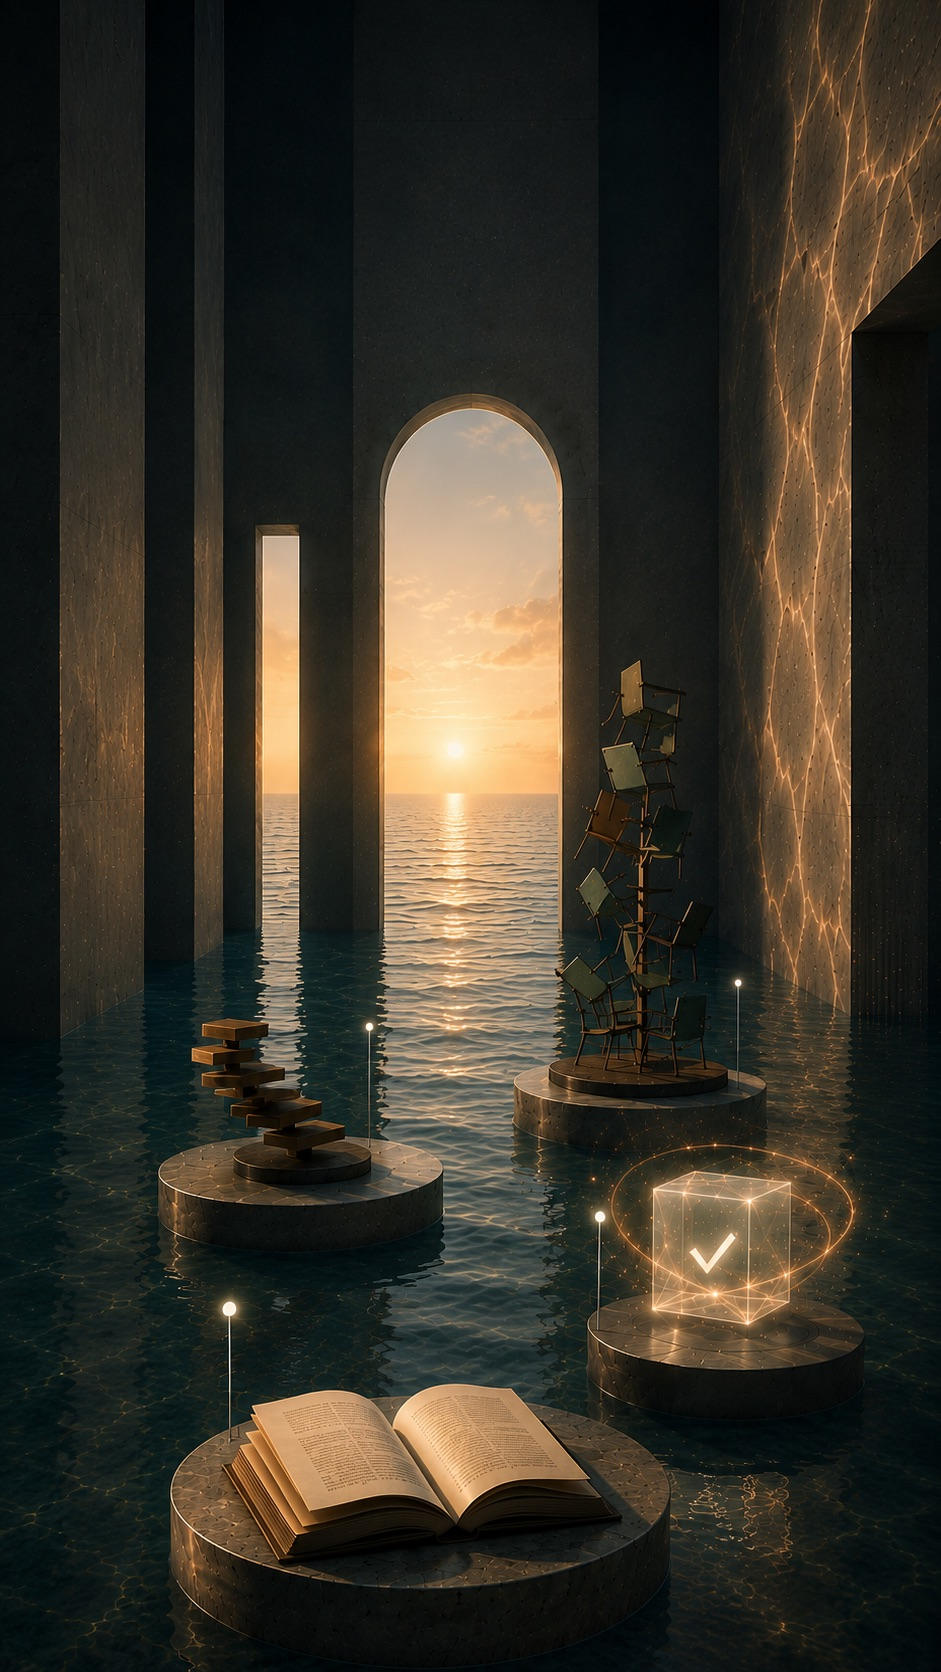
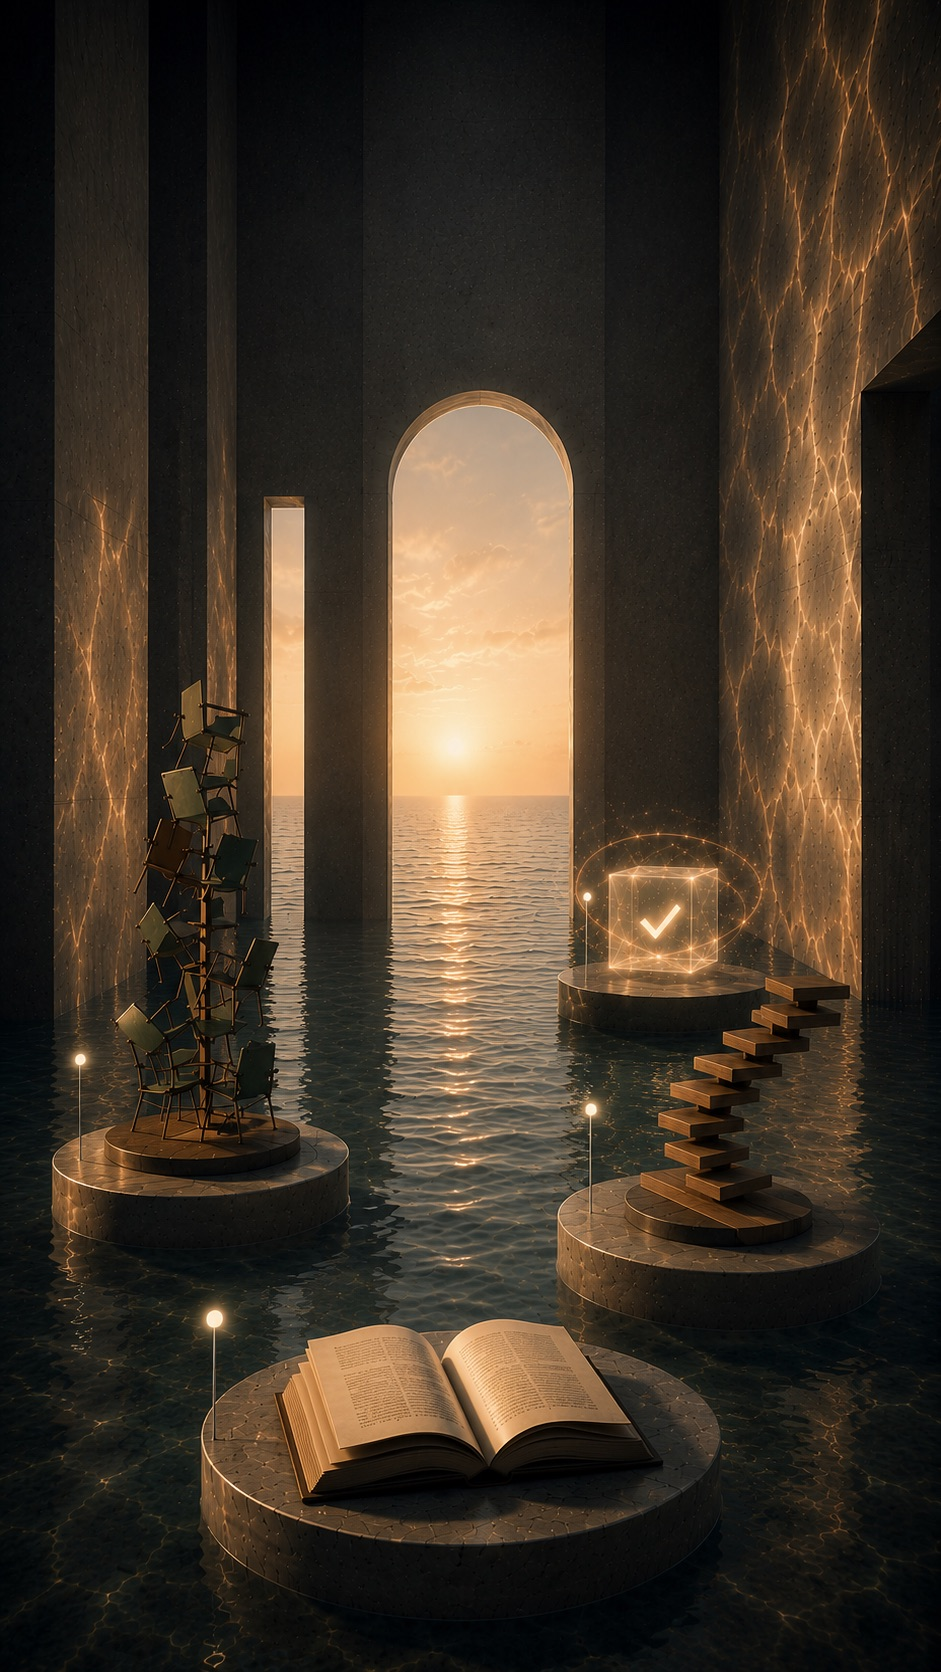
Swap mobile hero photo, single-digit steps, metallic reveal titles
- Replace the mobile background with the corrected photo (chairs
  left, checkmark/stairs right, book bottom-center) and re-detect all
  4 marker coordinates against it — the previous image had the wrong
  step layout. Desktop image/coordinates are untouched.
- Step index now shows single digits (1-4) instead of zero-padded
  01-04.
- Reveal panel titles (Discover/Steps/Structure/Delivery) get the same
  metallic aqua gradient + shine as the hero headline instead of a
  flat cream fill.
- View our work's continuous shine sweep (added last session) confirmed
  still in place and working.

diff --git a/css/style.css b/css/style.css
@@ -2746,13 +2746,33 @@ body, a{ cursor:none; }
   color:var(--gold-soft);
   margin-bottom:.9rem;
 }
+/* per direct request: "make the titles inside the steps to have the
+   same metallic aqua tone" — identical technique to .process-hero-
+   title above (shares its processHeroTitleShine keyframe), so the
+   reveal panel's own title reads as the same premium brushed metal,
+   not a separate flat cream fill */
 .process-reveal-title{
   font-family:'Fraunces', serif;
   font-style:italic;
   font-weight:400;
   font-size:clamp(2rem, 4.5vw, 3rem);
-  color:var(--cream);
   margin-bottom:1.1rem;
+  color:var(--gold-soft);
+  background:linear-gradient(115deg,
+    #eef8fa 0%,
+    var(--gold-soft) 16%,
+    var(--gold) 34%,
+    #f5fdff 50%,
+    var(--gold-deep) 66%,
+    var(--gold-soft) 84%,
+    #eef8fa 100%);
+  background-size:220% 100%;
+  background-position:0% 50%;
+  -webkit-background-clip:text;
+  background-clip:text;
+  -webkit-text-fill-color:transparent;
+  text-shadow:0 4px 30px rgba(4,8,12,.35);
+  animation:processHeroTitleShine 7s ease-in-out infinite;
 }
 .process-reveal-text{
   font-family:'Inter', sans-serif;

diff --git a/js/process-hero.js b/js/process-hero.js
@@ -102,24 +102,27 @@
   const revealText = document.getElementById('processRevealText');
   const heroTitle = hero.querySelector('.process-hero-title');
 
+  // per direct request: "make sure the steps do not come out as
+  // double digits" — single digit (1/2/3/4), not the old zero-padded
+  // 01/02/03/04
   const STEPS = {
     discover: {
-      index: '01',
+      index: '1',
       title: 'Discover',
       text: 'We start by learning your business inside and out — your goals, your customers, what’s working and what isn’t.',
     },
     steps: {
-      index: '02',
+      index: '2',
       title: 'Steps',
       text: 'A clear, honest roadmap from first sketch to final launch, so you always know exactly what happens next.',
     },
     structure: {
-      index: '03',
+      index: '3',
       title: 'Structure',
       text: 'Real, considered architecture beneath every page — built to hold up as your business grows, not just look good on day one.',
     },
     delivery: {
-      index: '04',
+      index: '4',
       title: 'Delivery',
       text: 'A finished site that’s fast, easy to manage, and ready to start bringing in business from day one.',
     },

diff --git a/index.html b/index.html
@@ -134,19 +134,19 @@ window.scrollTo(0, 0);
          crop every time the viewport resizes or crosses the mobile
          breakpoint, so this stays exactly on the marker at any window
          size rather than just approximately close at one -->
-    <button type="button" class="process-hotspot" data-step="discover" data-px="202" data-py="611" data-mobile-px="229" data-mobile-py="1337">
+    <button type="button" class="process-hotspot" data-step="discover" data-px="202" data-py="611" data-mobile-px="208" data-mobile-py="1323">
       <span class="process-hotspot-dot"></span>
       <span class="process-hotspot-label">Discover</span>
     </button>
-    <button type="button" class="process-hotspot" data-step="steps" data-px="422" data-py="594" data-mobile-px="369" data-mobile-py="1027">
+    <button type="button" class="process-hotspot" data-step="steps" data-px="422" data-py="594" data-mobile-px="594" data-mobile-py="1107">
       <span class="process-hotspot-dot"></span>
       <span class="process-hotspot-label">Steps</span>
     </button>
-    <button type="button" class="process-hotspot" data-step="structure" data-px="873" data-py="591" data-mobile-px="736" data-mobile-py="983">
+    <button type="button" class="process-hotspot" data-step="structure" data-px="873" data-py="591" data-mobile-px="84" data-mobile-py="1059">
       <span class="process-hotspot-dot"></span>
       <span class="process-hotspot-label">Structure</span>
     </button>
-    <button type="button" class="process-hotspot" data-step="delivery" data-px="1169" data-py="598" data-mobile-px="596" data-mobile-py="1217">
+    <button type="button" class="process-hotspot" data-step="delivery" data-px="1169" data-py="598" data-mobile-px="588" data-mobile-py="894">
       <span class="process-hotspot-dot"></span>
       <span class="process-hotspot-label">Delivery</span>
     </button>
@@ -154,7 +154,7 @@ window.scrollTo(0, 0);
     <div class="process-reveal" id="processReveal" aria-hidden="true">
       <div class="process-reveal-card">
         <button type="button" class="process-reveal-close" aria-label="Close">&times;</button>
-        <span class="process-reveal-index" id="processRevealIndex">01</span>
+        <span class="process-reveal-index" id="processRevealIndex">1</span>
         <h2 class="process-reveal-title" id="processRevealTitle">Discover</h2>
         <p class="process-reveal-text" id="processRevealText"></p>
       </div>